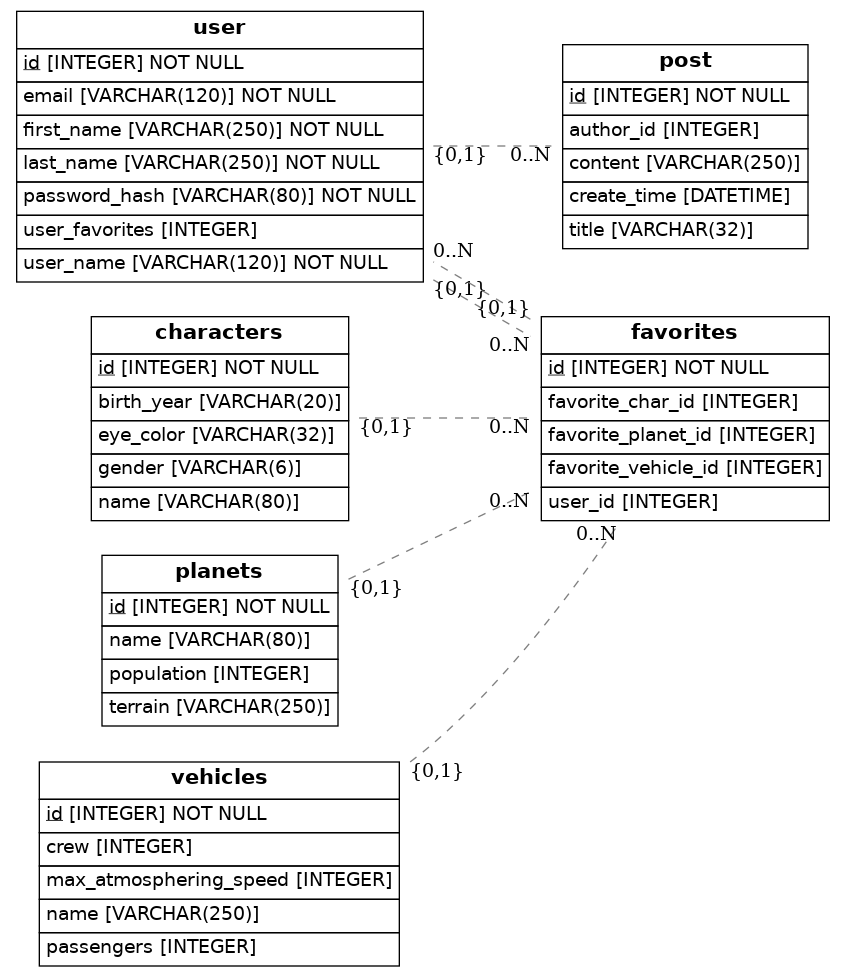
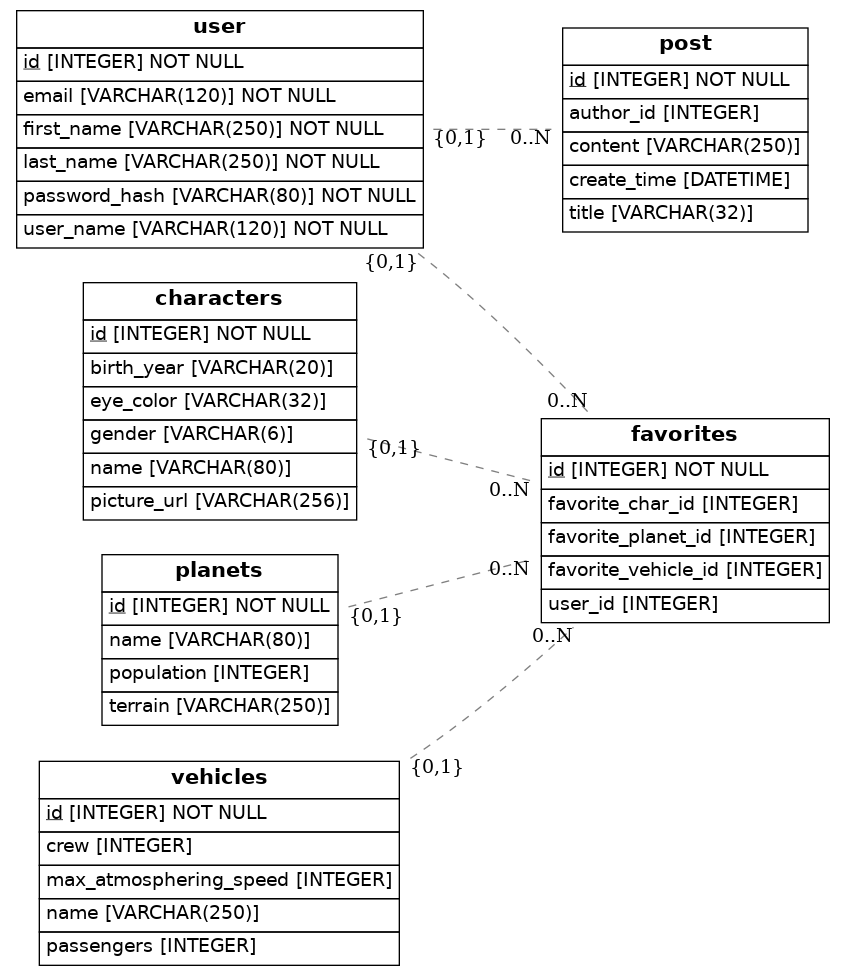
completed

diff --git a/src/models.py b/src/models.py
@@ -19,7 +19,7 @@ class User(Base):
     first_name = Column(String(250), nullable=False)
     last_name = Column(String(250), nullable=False)
     email = Column(String(120), nullable=False)
-    user_favorites = Column(Integer, ForeignKey("favorites.id"))#stakes relationship between user and it's favorites
+    # user_favorites = Column(Integer, ForeignKey("favorites.id"))#stakes relationship between user and it's favorites
 
 
 class Post(Base):
@@ -50,6 +50,7 @@ class Characters(Base):
     gender = Column(String(6))
     eye_color = Column(String(32))
     birth_year = Column(String(20))#string to accomodate all characters
+    picture_url = Column(String(256))
 
 class Planets(Base):
     __tablename__ = 'planets'
